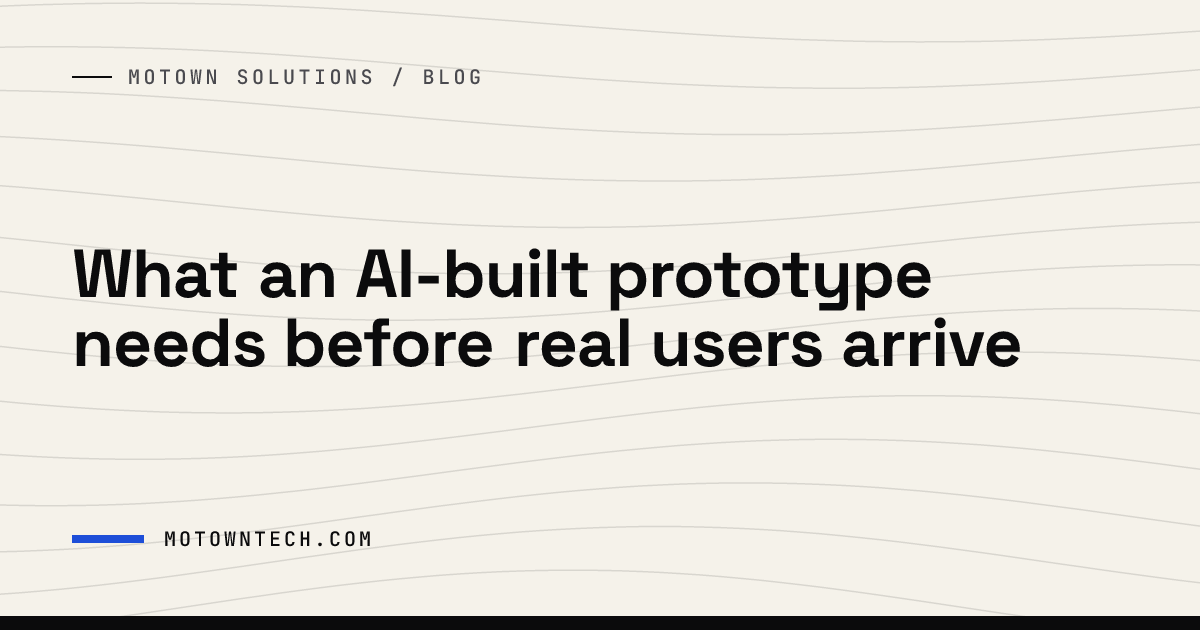
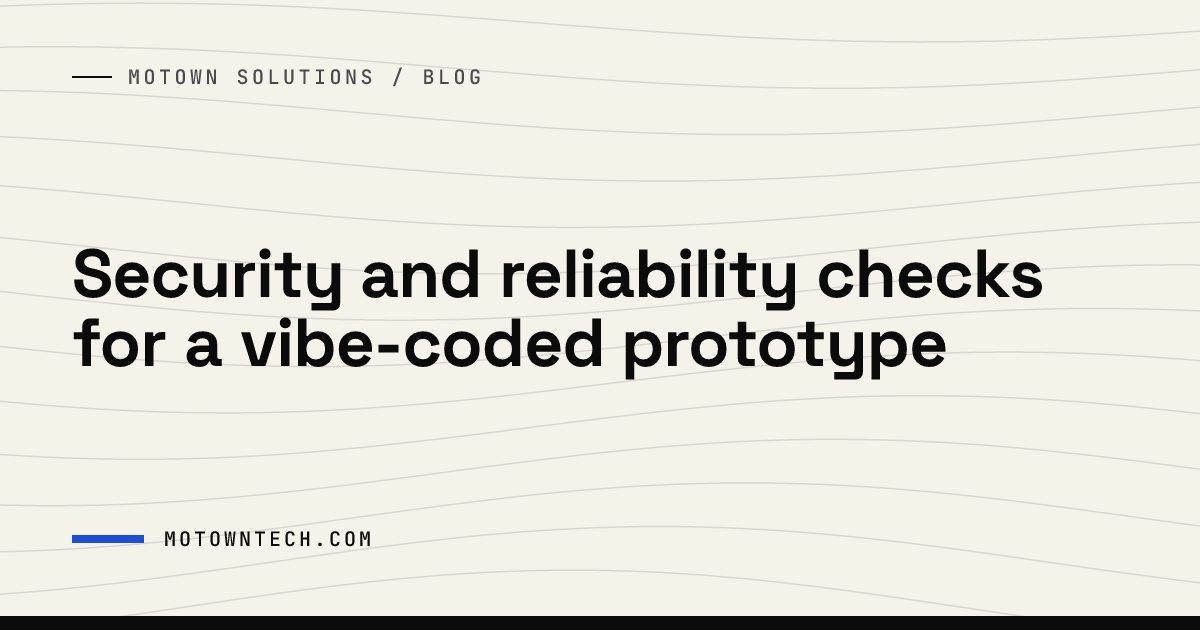
copy(blog): refocus the prototype post on security and reliability

Changed region(s): [[0.0617, 0.3921, 0.8633, 0.6032]]

diff --git a/src/content/blog/what-your-prototype-skipped.md b/src/content/blog/what-your-prototype-skipped.md
@@ -1,50 +1,76 @@
 ---
-title: "What an AI-built prototype needs before real users arrive"
+title: "Security and reliability checks for a vibe-coded prototype"
 image: ../../assets/blog/what-your-prototype-skipped-image.jpg
 imageAlt: "A half-built stone arch supported by wooden scaffolding on a blue floor"
 cover: ../../assets/blog/what-your-prototype-skipped.png
-description: "A no-code or AI-built prototype can prove an idea in days. Here is what it usually leaves out, and what we add before it goes in front of customers."
+description: "The security and reliability gaps to check before a vibe-coded or AI-built prototype holds real customer data, and how to test for each one."
 pubDate: 2026-09-11
 relatedPages: ["/prototype-to-production"]
 category: software
 ---
 
-Before an AI-built or no-code prototype can take real users, it needs data that survives a redeploy, real sign-in and permissions, handling for the paths a demo never takes, hardened connections to the services it depends on, and a way to ship and roll back.
+In one rebuild we took on, "submitted by" was a dropdown of six hard-coded names. Without user accounts, the dropdown could demonstrate the workflow but couldn't identify who submitted a record, and anyone with the link could submit as anyone.
 
-A no-code tool or an AI coding assistant can turn an idea into a demo in days, and that speed is useful for finding out whether an idea is worth pursuing. A demo only has to work for one person following one path through the screens, though, and most prototypes are built with that in mind. These are the layers we add before one runs for real.
+A vibe-coded or no-code prototype can help people agree on what the product should do. Working screens alone don't show whether someone can reach another customer's records or whether the app recovers when a service fails. Check those protections before customers depend on it, even if security and reliability were part of the original brief.
 
-## Data that survives a redeploy
+## Security: who can reach what
+
+### Permissions enforced on the server
+
+Check whether hiding a button is the only thing preventing an unauthorized action. If the server accepts the same request from someone without permission, the data remains exposed even though the screen looks locked down.
+
+Replacing that dropdown meant giving each person a real account, with permissions suited to their job, and checking those permissions on the server for every request. Ask the team to demonstrate a user trying to reach someone else's records by calling the app directly, outside the normal screens. Check the records they are denied and the ones they can open.
+
+### Database rules
+
+Some prototypes let the browser access a hosted database through a public API. A visible project address or publishable key can be part of that design; access must be restricted by the permissions enforced behind it. Which records are exposed depends on the tables available through the API, the permissions granted and any rules restricting access to individual records.
+
+For a setup such as Supabase, check table permissions and row-level security policies together. Its [data security guide](https://supabase.com/docs/guides/database/secure-data) explains how those protections work. Test the exposed tables both without signing in and with an account that should have limited access. Secret keys that bypass those protections must never reach the browser.
+
+### Secrets kept out of the code
+
+Look for private payment keys, email service credentials and database passwords pasted into the code. Store these in the hosting platform's secret settings and use them only in server-side code. Moving a value into an environment variable doesn't keep it private if the build includes that value in the browser's code. Vite, for example, [exposes variables prefixed with `VITE_` to client code](https://vite.dev/guide/env-and-mode.html).
+
+Rotate any secret credential that was committed or exposed to the browser. Deleting it from the current code leaves it in the repository's history. Publishable keys intended for browser use are different; check each provider's guidance before treating a visible key as a leaked secret.
+
+### Input and dependencies
+
+Treat everything a user types or uploads as untrusted: form fields, file uploads, and text passed to an AI model. Limit how often someone can try a password or call an expensive feature, so one script can't run up your AI bill overnight.
+
+Check every package the app depends on. AI assistants sometimes suggest libraries that are outdated or don't exist, and attackers have registered packages under names that assistants tend to invent. Each dependency should be real, maintained and pinned to a known version. The [OWASP Top 10](https://owasp.org/Top10/) is a useful checklist for the rest of a web app review.
+
+## Reliability: what happens when something fails
+
+### Data that survives a redeploy
 
 In a lot of prototypes the data lives in memory or in a store nobody designed. Restart the app and it resets, or two records end up disagreeing with each other.
 
-A production app needs a real schema, migrations so its structure can change without losing anything, and backups. The data has to stay consistent and still be there after the next deploy.
+A production app needs a real schema, migrations so its structure can change without losing anything, and backups that someone has restored at least once.
 
-## Real sign-in and permissions
+### The paths a demo never takes
 
-Prototypes often have hard-coded secrets and let anyone sign in. That is fine on a laptop and a serious problem once customer data is involved. In one rebuild we took on, the "submitted by" field was a dropdown of six hard-coded names, because the demo had no users at all.
+A demo usually follows the path its builder expects. Real people submit twice, leave forms unfinished and come back after a connection drops. A double submit shouldn't create two orders or charge a card twice.
 
-We add proper authentication, role-based access so each person only reaches what they should, and secrets that are managed outside the code.
+Work that takes too long for a page may need a background job. A process that fails halfway through needs a defined way to resume or stop safely. Test the paths people will rely on, including the error messages and recovery steps. The screens need to work on their devices and be accessible to them.
 
-## The paths a demo never takes
+### Outside services that fail
 
-A demo sticks to the happy path. That is why so many prototypes work on the first try and break on the second user.
+List the services the prototype depends on, such as payments, email and sign-in. For each, check who owns the account, where its keys live and what the app does when that service is slow or down. A request that waits forever freezes the page; one that fails silently loses the customer's work. Test slow and refused requests too.
 
-Production code runs background jobs and queues for the work that shouldn't hold up a page, and its business logic has to keep working when something goes wrong partway through. We test it under real load, with proper error handling, before customers rely on it. The screens people touch also need to be accessible and responsive, and they need to hold up to what a paying customer expects.
+### Knowing it broke before a customer tells you
 
-## The services it depends on
+A prototype usually fails quietly. Add error tracking, logs you can search and an alert when the app stops responding. Agree which failures should wake someone up and who that person is.
 
-No app runs on its own. It needs APIs, payments, sign-in providers and other third-party services, and each one has to be connected properly and hardened.
+### A way to ship and roll back
 
-Underneath that, we connect the app to the cloud it runs on (AWS, GCP or Azure), managed Postgres, Redis and object storage, transactional email that actually gets delivered, and monitoring, logging and product metrics so you can see what it's doing.
-
-## A way to ship and roll back
-
-Prototypes tend to be deployed by hand, with no way back if a release goes wrong. We set up hosting, automated CI/CD, monitoring and scaling, so a release is routine and a bad one can be rolled back.
+Find out how the prototype is deployed and whether someone other than its builder can repeat that process. Before customers depend on it, rehearse a release and a rollback. Afterward, check the records and the screens.
 
 ## Example: a senior-care prototype rebuilt for health data
 
-We wrote about one of these rebuilds in detail: [a senior-care operator's low-code prototype](/blog/prototype-to-production-health-data) that had exactly the right workflow and no way to hold real resident records. The screens stayed the same and almost everything underneath changed.
+We wrote about one of these rebuilds in detail: [a senior-care operator's low-code prototype](/blog/prototype-to-production-health-data) that had exactly the right workflow and no way to hold real resident records safely. The screens stayed the same and almost everything underneath changed.
 
 ## Where to start
 
-A prototype that works is a good starting point, because the idea has already been tested. If you have one, whether it was vibe-coded, AI-built or got stuck at 80%, [send it to us](/contact). We'll tell you what stands between it and an app you can ship. Most prototypes take roughly 4 to 8 weeks to make production-ready. You can also read more about how we approach [prototype to production](/prototype-to-production).
+In an isolated test environment with dummy data, sign in as two people with different accounts and try to open each other's records, including by calling the app directly. Search the code and its history for secret credentials. Then restart the app, check the records, and make an outside service unavailable to see what users get.
+
+Separate what you find into launch blockers and work that can wait. Testing with dummy data can continue while gaps are closed. If customer records are exposed, restrict access immediately; if secret credentials have leaked, rotate them and investigate their use before resuming the affected operation.
